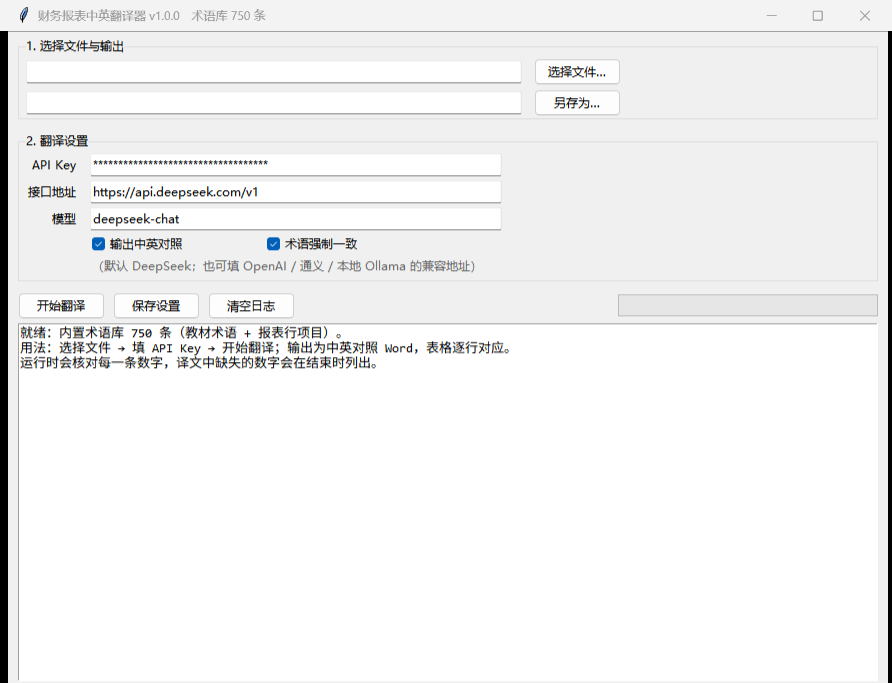
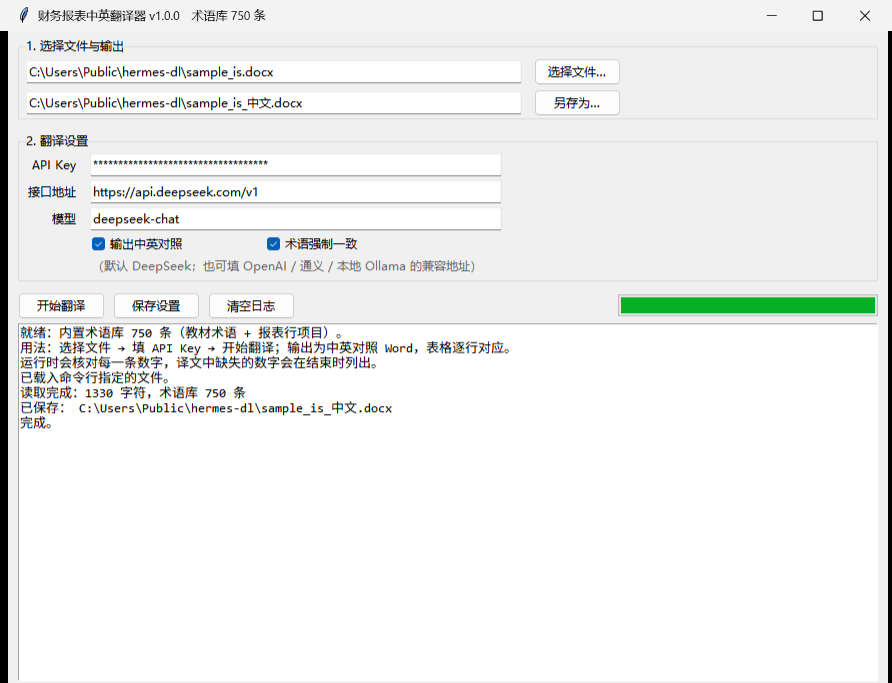
feat(app): open a file from the command line (--auto runs it); screenshot shows a real run

diff --git a/app/translator.py b/app/translator.py
@@ -532,6 +532,17 @@ def run_gui():
         log("完成。")
 
     run_btn.configure(command=lambda: threading.Thread(target=work, daemon=True).start())
+
+    # 命令行带文件：预填并在 --auto 时自动开始（拖拽 / 脚本调用都能用）
+    _pre = [a for a in sys.argv[1:] if not a.startswith("-")]
+    if _pre and os.path.exists(_pre[0]):
+        f_var.set(_pre[0])
+        _base, _ext = os.path.splitext(_pre[0])
+        o_var.set(_base + "_中文" + (_ext if _ext in (".docx", ".xlsx", ".txt") else ".docx"))
+        log("已载入命令行指定的文件。")
+        if "--auto" in sys.argv:
+            root.after(1200, lambda: run_btn.invoke())
+
     root.mainloop()
 
 
